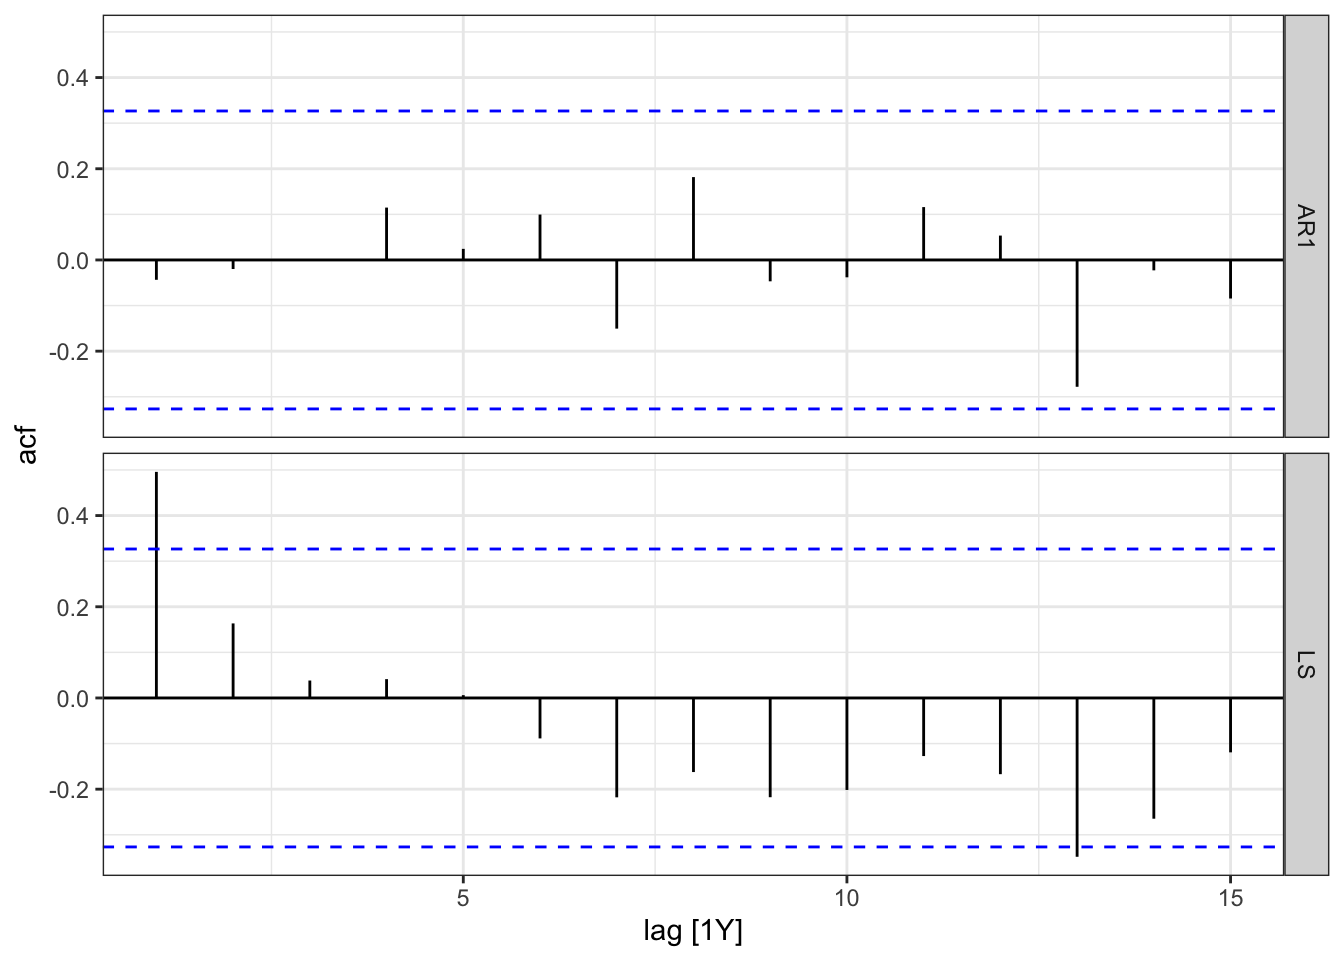
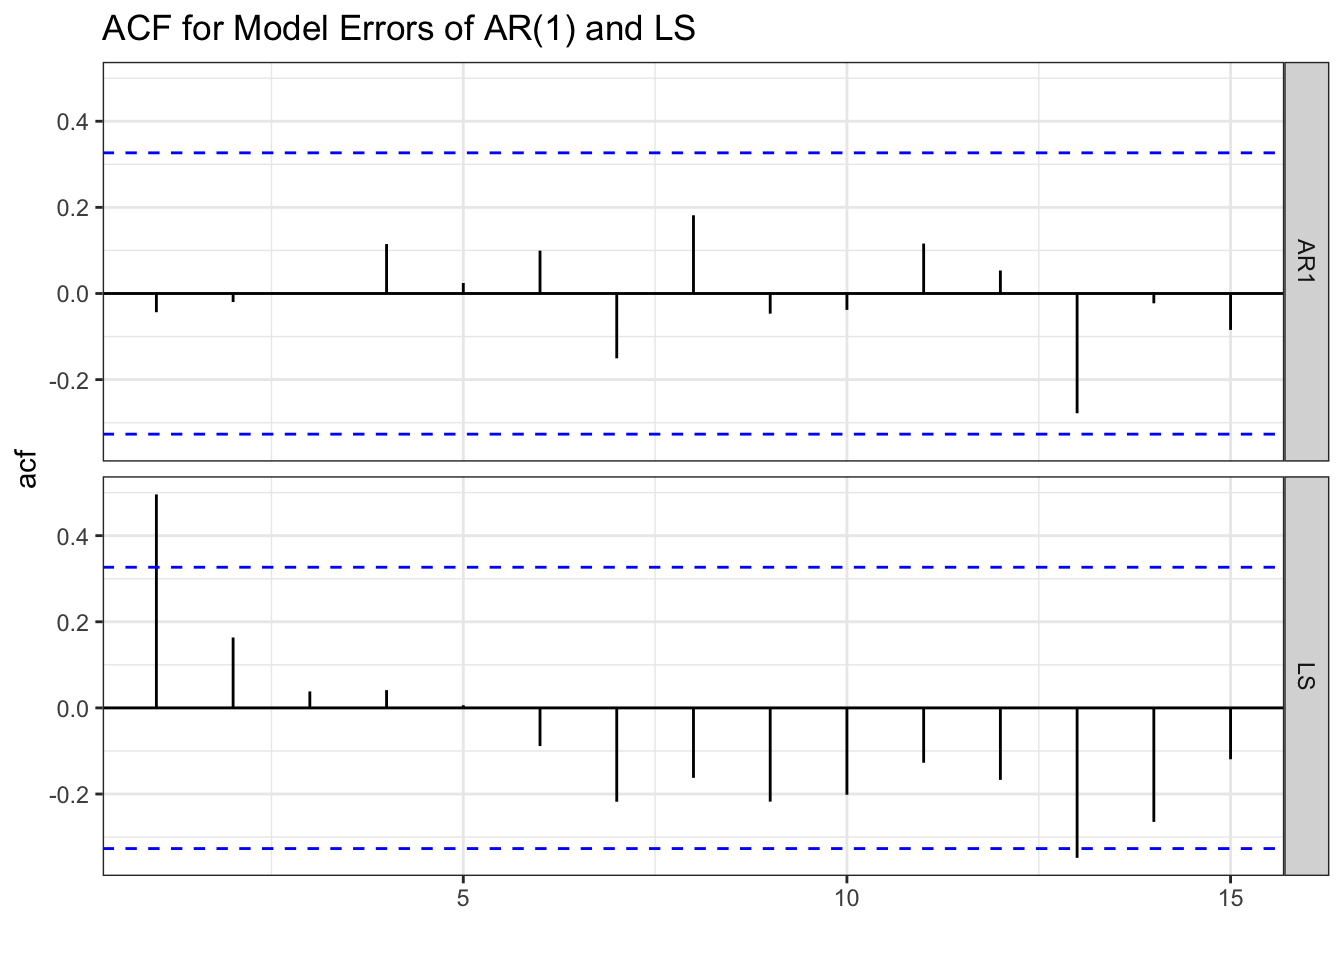
changes

diff --git a/docs/ARIMA.html b/docs/ARIMA.html
@@ -1398,7 +1398,9 @@ We can generate a white noise process by using the normal distribution with a me
 <div class="sourceCode cell-code" id="cb15"><pre class="sourceCode r code-with-copy"><code class="sourceCode r"><span id="cb15-1"><a href="#cb15-1" aria-hidden="true" tabindex="-1"></a>errors_PI<span class="ot">&lt;-</span><span class="fu">augment</span>(PI_fit)</span>
 <span id="cb15-2"><a href="#cb15-2" aria-hidden="true" tabindex="-1"></a></span>
 <span id="cb15-3"><a href="#cb15-3" aria-hidden="true" tabindex="-1"></a>errors_PI <span class="sc">%&gt;%</span> <span class="fu">select</span>(.resid) <span class="sc">%&gt;%</span> <span class="fu">ACF</span>(.resid) <span class="sc">%&gt;%</span> </span>
-<span id="cb15-4"><a href="#cb15-4" aria-hidden="true" tabindex="-1"></a>  <span class="fu">autoplot</span>() <span class="sc">+</span> <span class="fu">theme_bw</span>()</span></code><button title="Copy to Clipboard" class="code-copy-button"><i class="bi"></i></button></pre></div>
+<span id="cb15-4"><a href="#cb15-4" aria-hidden="true" tabindex="-1"></a>  <span class="fu">autoplot</span>() <span class="sc">+</span> <span class="fu">theme_bw</span>() <span class="sc">+</span></span>
+<span id="cb15-5"><a href="#cb15-5" aria-hidden="true" tabindex="-1"></a>  <span class="fu">labs</span>(<span class="at">title=</span><span class="st">"ACF for Model Errors of AR(1) and LS"</span>,</span>
+<span id="cb15-6"><a href="#cb15-6" aria-hidden="true" tabindex="-1"></a>       <span class="at">x=</span><span class="st">""</span>)</span></code><button title="Copy to Clipboard" class="code-copy-button"><i class="bi"></i></button></pre></div>
 <div class="cell-output-display">
 <p><img src="ARIMA_files/figure-html/unnamed-chunk-18-1.png" class="img-fluid" width="672"></p>
 </div>
@@ -3072,7 +3074,10 @@ We can generate a white noise process by using the normal distribution with a me
 <div class="cell">
 <div class="sourceCode cell-code" id="cb27"><pre class="sourceCode r code-with-copy"><code class="sourceCode r"><span id="cb27-1"><a href="#cb27-1" aria-hidden="true" tabindex="-1"></a>fit <span class="sc">%&gt;%</span> <span class="fu">forecast</span>(<span class="at">h=</span><span class="dv">27</span>) <span class="sc">%&gt;%</span> <span class="fu">autoplot</span>(<span class="at">level=</span><span class="cn">NULL</span>) <span class="sc">+</span> </span>
 <span id="cb27-2"><a href="#cb27-2" aria-hidden="true" tabindex="-1"></a>  <span class="fu">theme_classic</span>() <span class="sc">+</span> </span>
-<span id="cb27-3"><a href="#cb27-3" aria-hidden="true" tabindex="-1"></a>  <span class="fu">autolayer</span>(cali, average_price) </span></code><button title="Copy to Clipboard" class="code-copy-button"><i class="bi"></i></button></pre></div>
+<span id="cb27-3"><a href="#cb27-3" aria-hidden="true" tabindex="-1"></a>  <span class="fu">autolayer</span>(cali, average_price) <span class="sc">+</span> </span>
+<span id="cb27-4"><a href="#cb27-4" aria-hidden="true" tabindex="-1"></a>  <span class="fu">labs</span>(<span class="at">y=</span><span class="st">""</span>, <span class="at">title=</span> <span class="st">"California's Forecasted Average Price Of Avocados"</span>,</span>
+<span id="cb27-5"><a href="#cb27-5" aria-hidden="true" tabindex="-1"></a>       <span class="at">subtitle =</span> <span class="st">"Jan 4, 2015 - Dec 2, 2018"</span>,</span>
+<span id="cb27-6"><a href="#cb27-6" aria-hidden="true" tabindex="-1"></a>       <span class="at">x=</span><span class="st">""</span>)</span></code><button title="Copy to Clipboard" class="code-copy-button"><i class="bi"></i></button></pre></div>
 <div class="cell-output-display">
 <p><img src="ARIMA_files/figure-html/unnamed-chunk-33-1.png" class="img-fluid" width="672"></p>
 </div>
